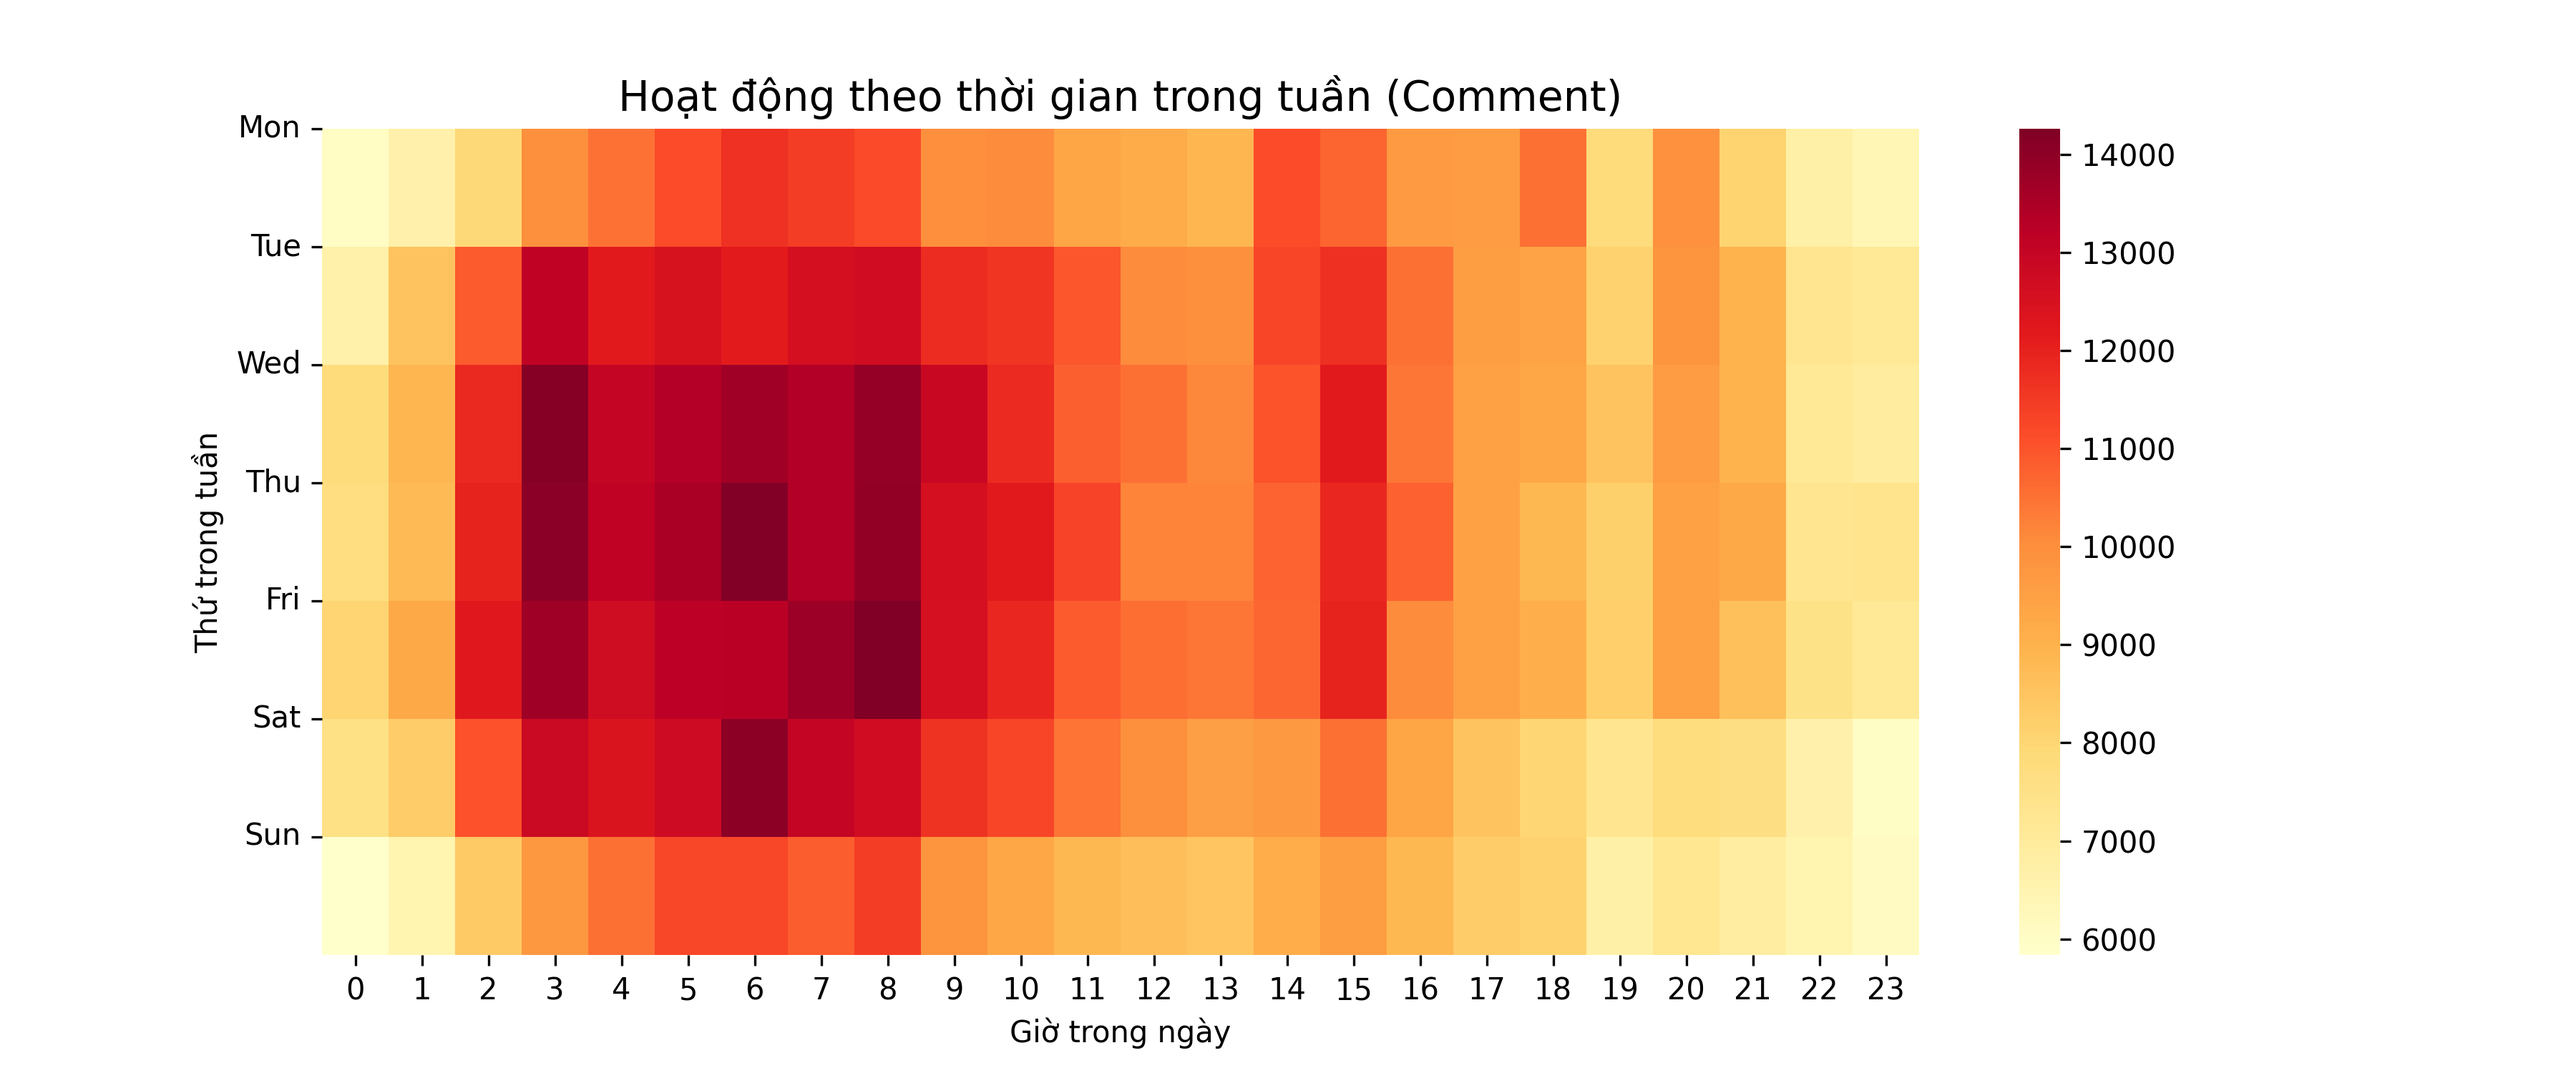
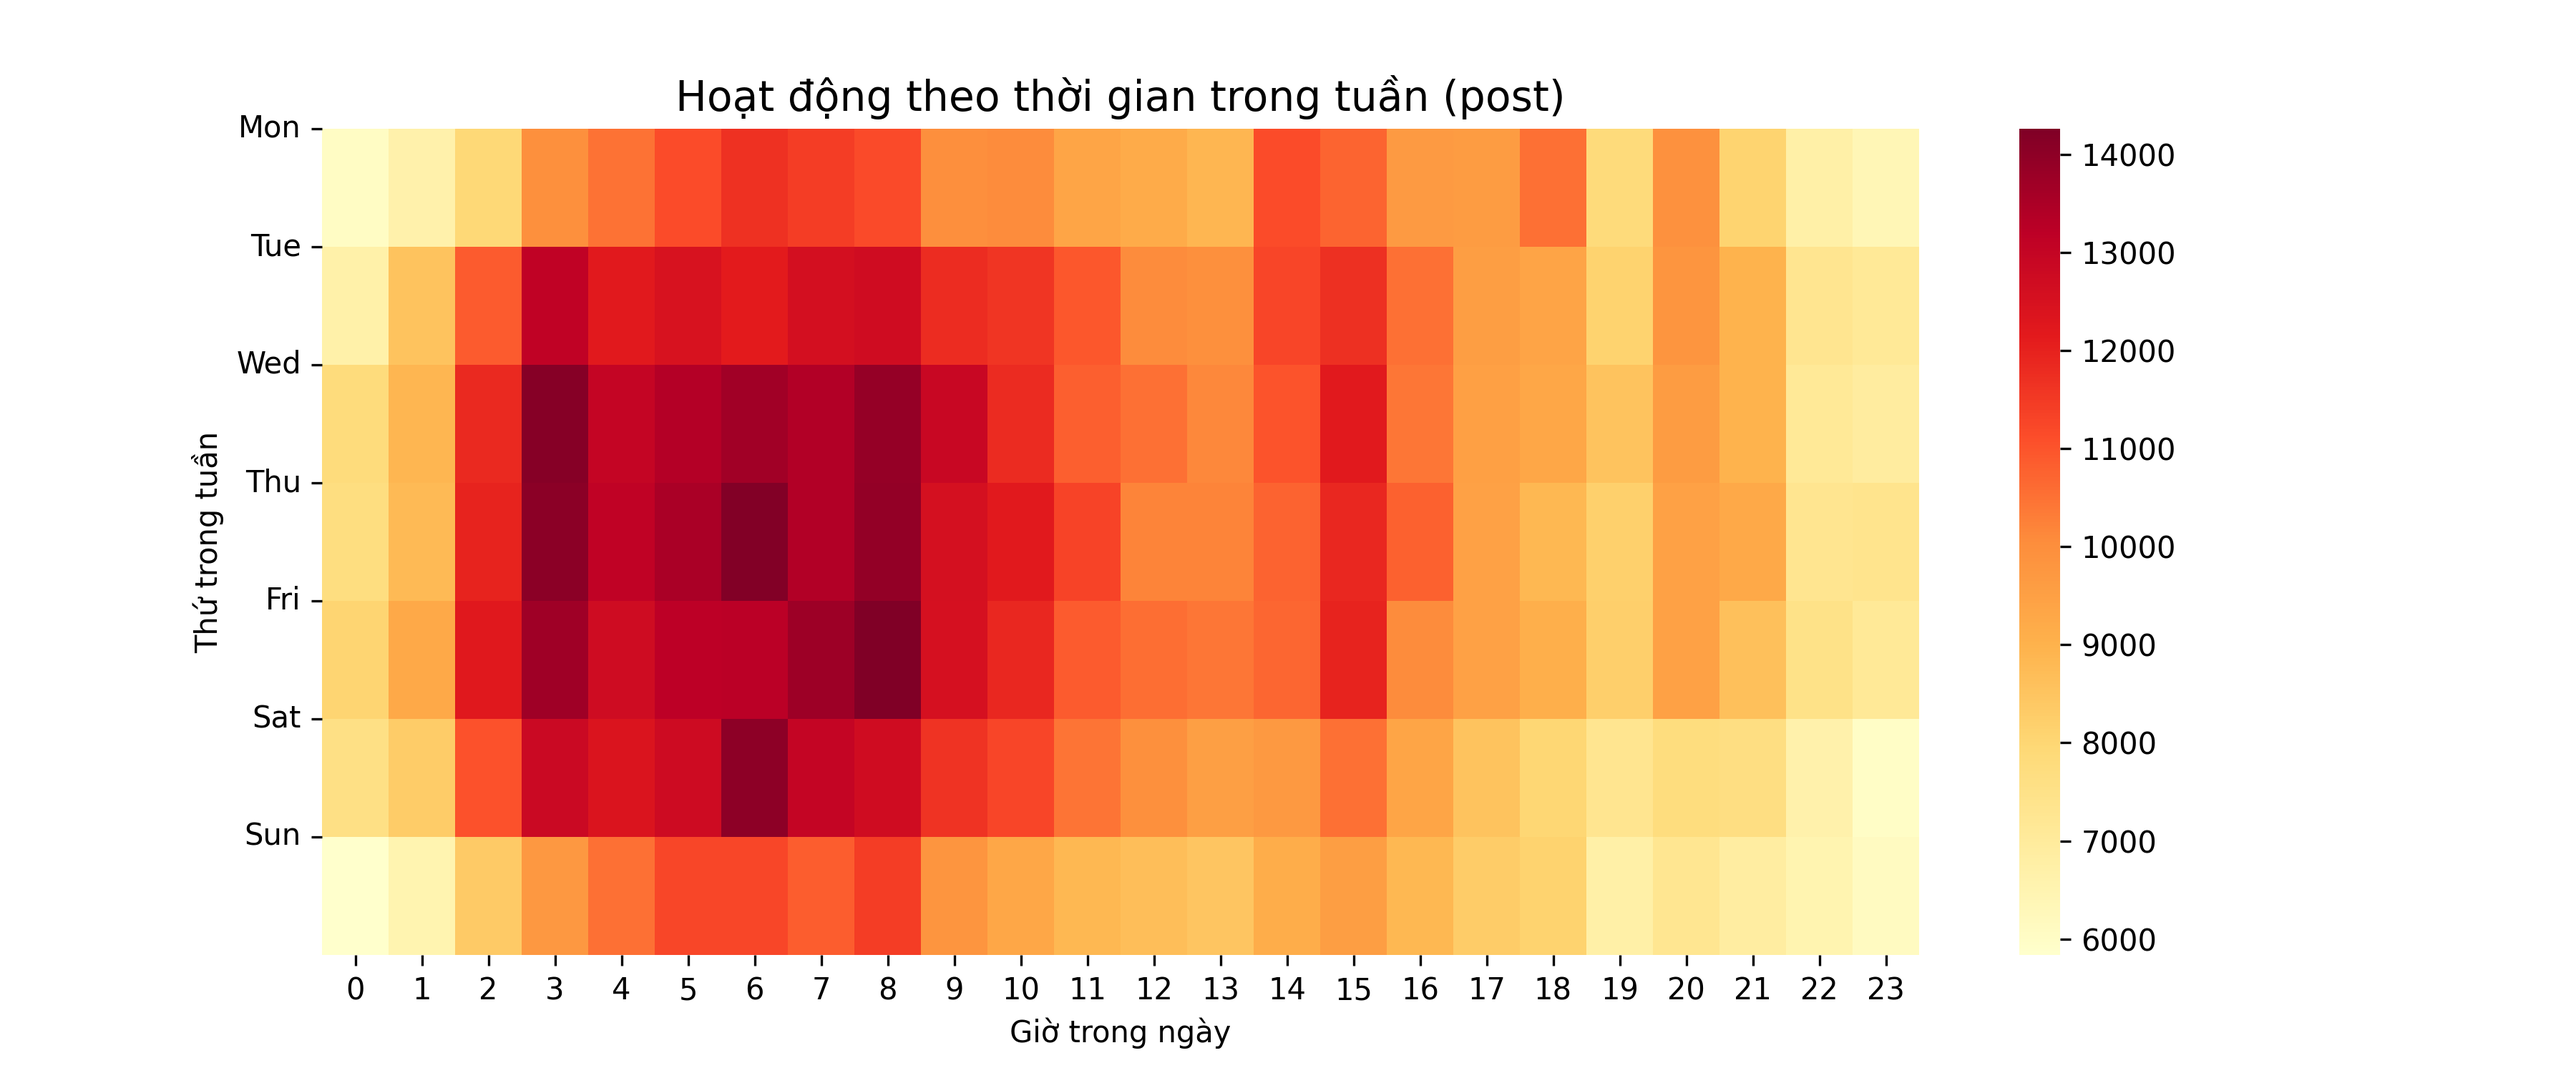
relationship-postScore-poster-comment'skarma and Activities-throughout-week..

Changed region(s): [[0.2489, 0.0613, 0.6222, 0.1227]]

diff --git a/data_prepare/Huy/heatmap_activate_week_post_comment.py.py b/data_prepare/Huy/heatmap_activate_week_post_comment.py.py
@@ -37,7 +37,7 @@ activity = df.groupby(['day_of_week', 'hour']).size().unstack(fill_value=0)
 plt.figure(figsize=(12, 5))
 sns.heatmap(activity, cmap="YlOrRd")
 
-plt.title("Hoạt động theo thời gian trong tuần (Comment)", fontsize=14)
+plt.title("Hoạt động theo thời gian trong tuần (post)", fontsize=14)
 plt.xlabel("Giờ trong ngày")
 plt.ylabel("Thứ trong tuần")
 plt.yticks(
